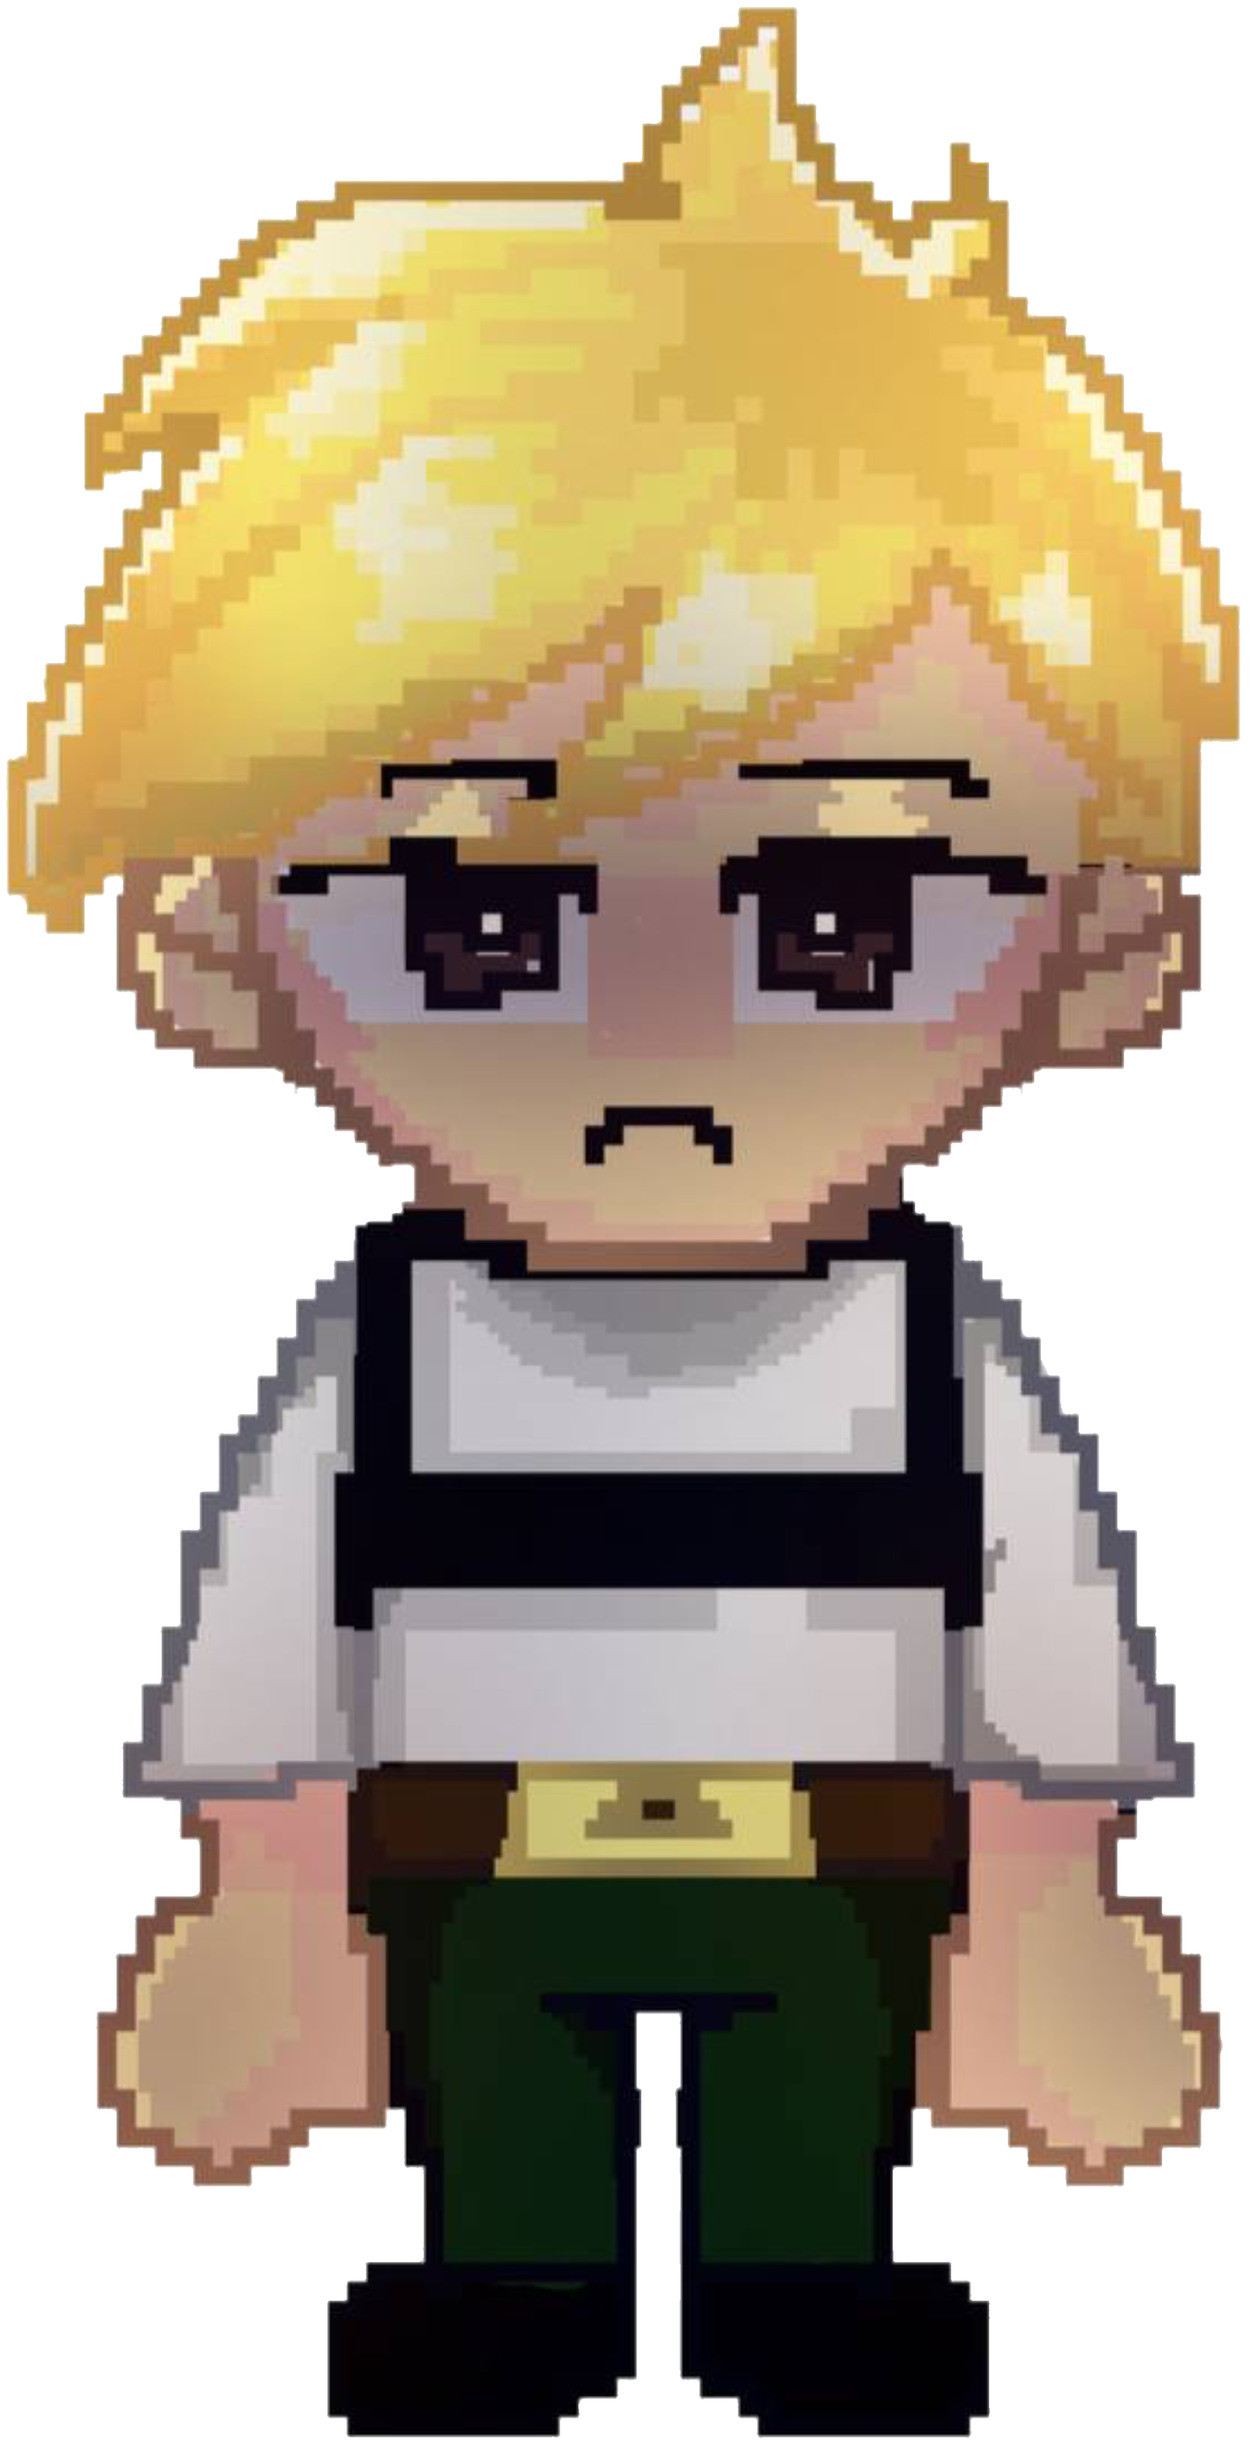
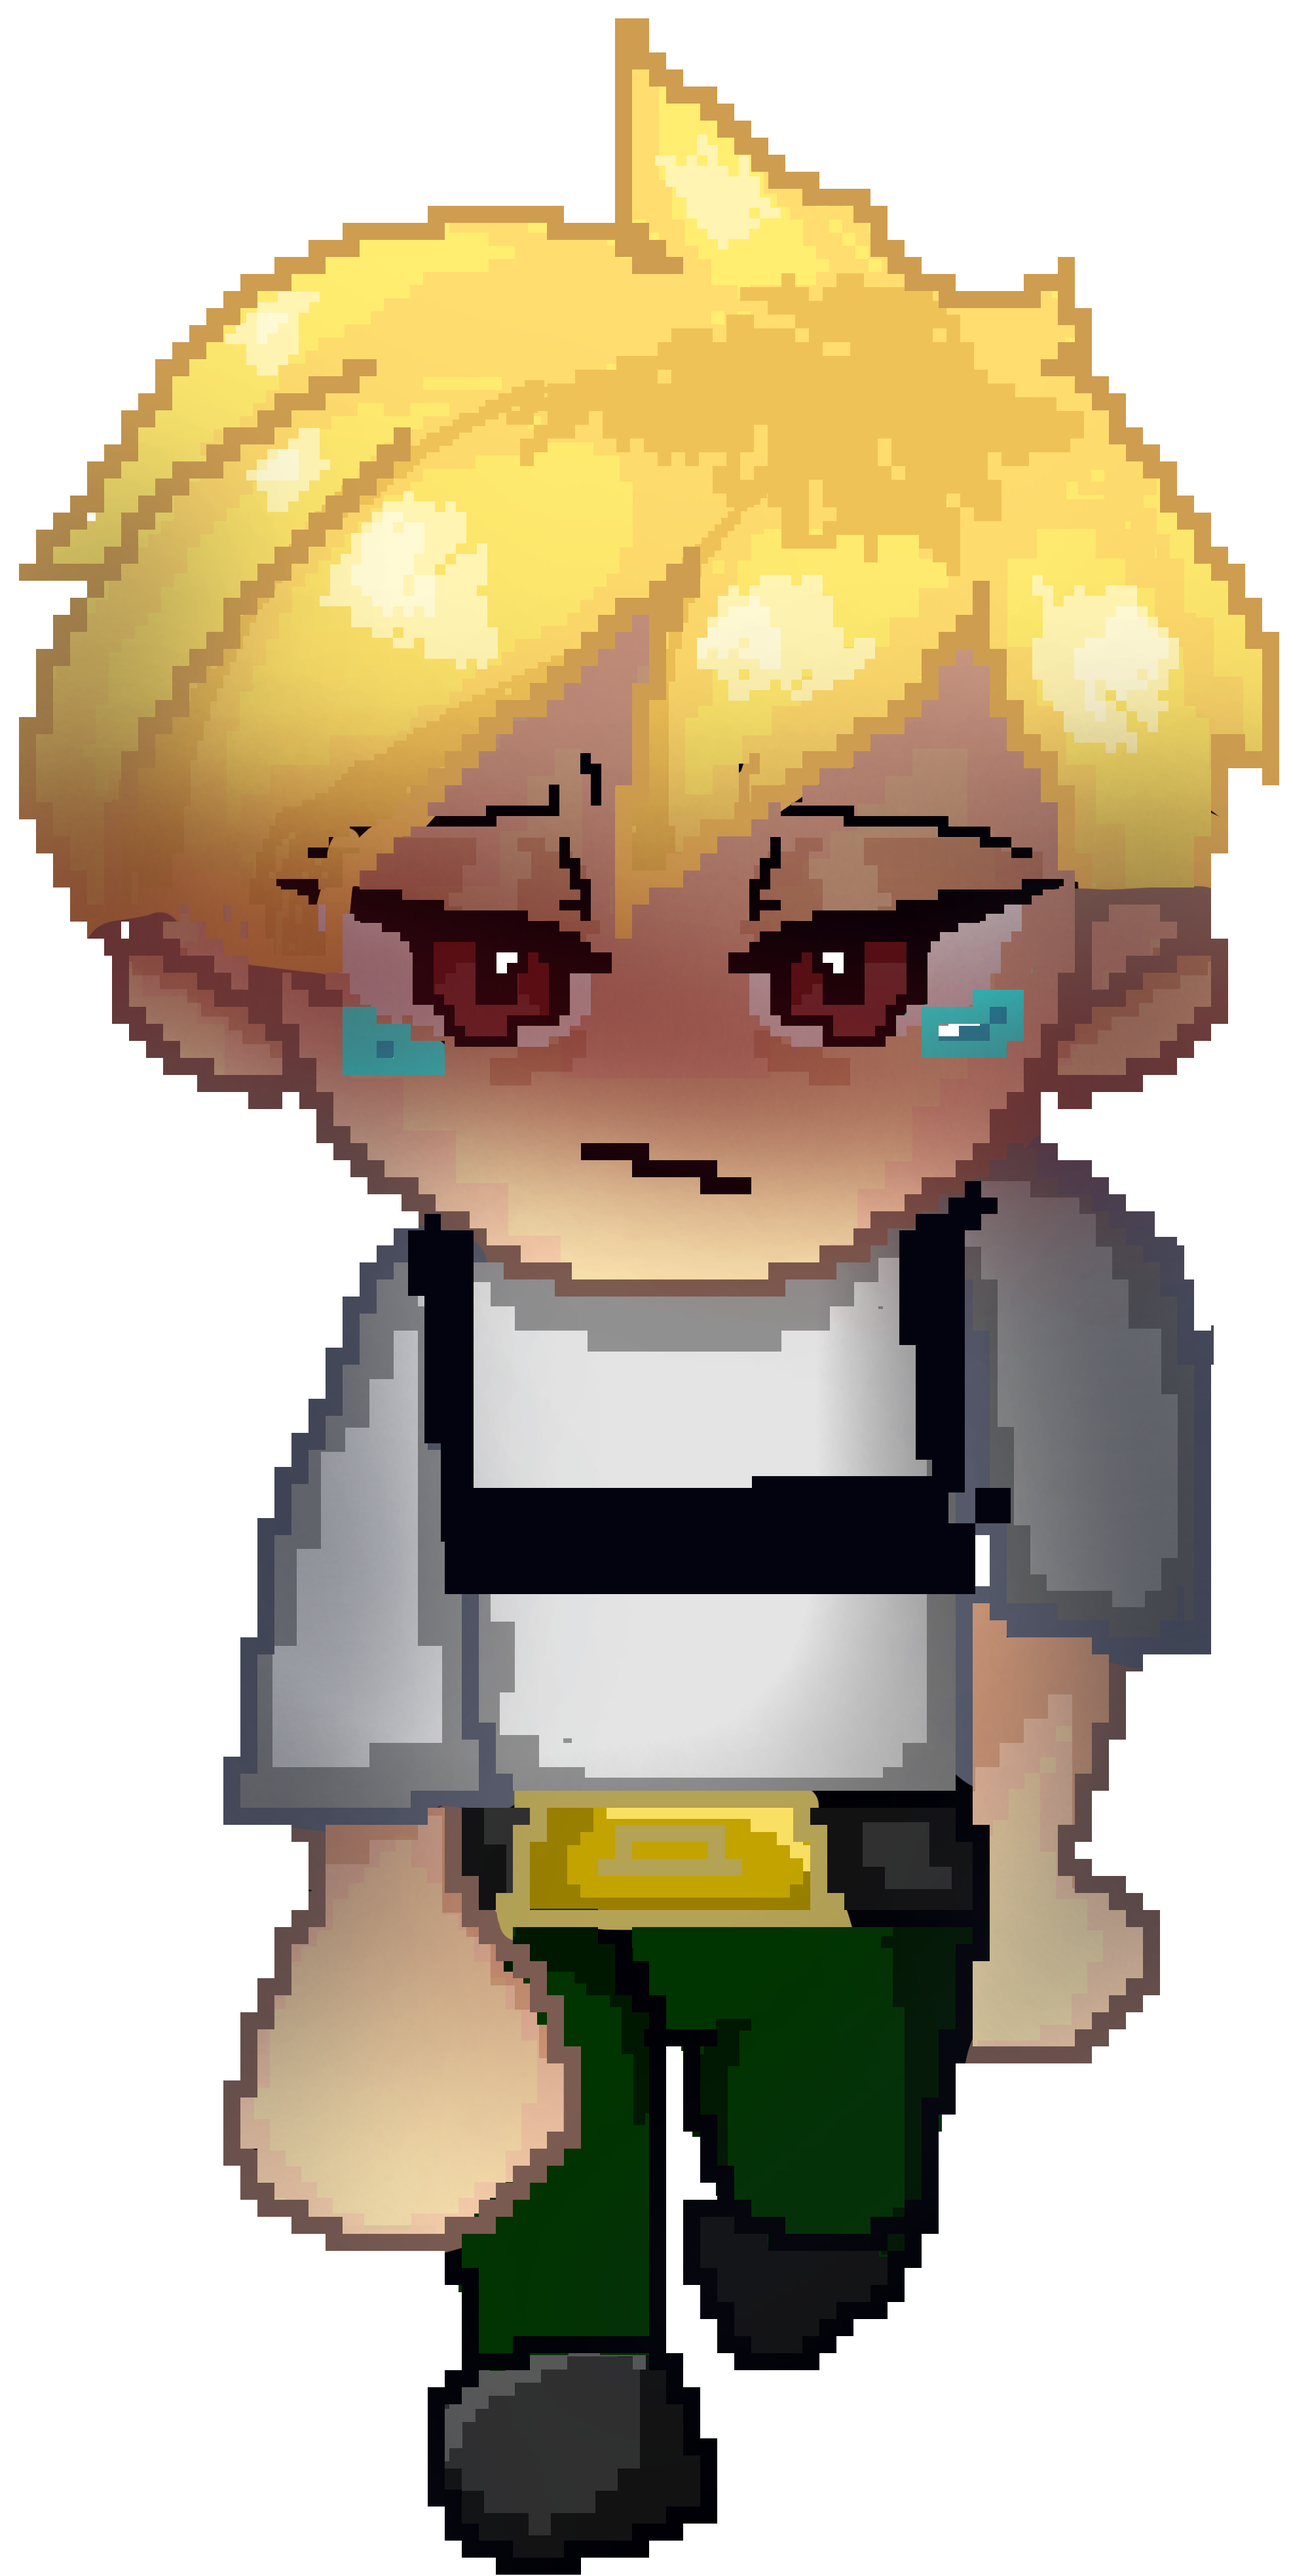
Анимация новая

diff --git a/Menu2/Classes/Player.cs b/Menu2/Classes/Player.cs
@@ -74,21 +74,22 @@ namespace Menu2
             animations.Add(new BitmapImage(new Uri("hero2.PNG", UriKind.Relative)));
             animations.Add(new BitmapImage(new Uri("hero3.PNG", UriKind.Relative)));
             animations.Add(new BitmapImage(new Uri("hero4.png", UriKind.Relative)));
-            animations.Add(new BitmapImage(new Uri("hero5.png", UriKind.Relative)));
             animations.Add(new BitmapImage(new Uri("heroBack1.png", UriKind.Relative)));
             animations.Add(new BitmapImage(new Uri("heroBack2.png", UriKind.Relative)));
+            animations.Add(new BitmapImage(new Uri("stayBack.png", UriKind.Relative)));
+            animations.Add(new BitmapImage(new Uri("stayForward.png", UriKind.Relative)));
         }
 
         private void heroTick(object sender, EventArgs e)
         {
             if (UpKeyPressed)
             {
-                AnimateHero(5, 6);
+                AnimateHero(4, 5);
             }
 
             if (DownKeyPressed)
             {
-                AnimateHero(0, 4);
+                AnimateHero(0, 3);
             }
         }
         public void KeyboardUp(object sender, KeyEventArgs e)

diff --git a/Menu2/Classes/PlayerMaze.cs b/Menu2/Classes/PlayerMaze.cs
@@ -57,21 +57,22 @@ namespace Menu2.Classes
             animations.Add(new BitmapImage(new Uri("hero2.PNG", UriKind.Relative)));
             animations.Add(new BitmapImage(new Uri("hero3.PNG", UriKind.Relative)));
             animations.Add(new BitmapImage(new Uri("hero4.png", UriKind.Relative)));
-            animations.Add(new BitmapImage(new Uri("hero5.png", UriKind.Relative)));
             animations.Add(new BitmapImage(new Uri("heroBack1.png", UriKind.Relative)));
             animations.Add(new BitmapImage(new Uri("heroBack2.png", UriKind.Relative)));
+            animations.Add(new BitmapImage(new Uri("stayBack.png", UriKind.Relative)));
+            animations.Add(new BitmapImage(new Uri("stayForward.png", UriKind.Relative)));
         }
 
         private void heroTick(object sender, EventArgs e)
         {
             if (UpKeyPressed)
             {
-                AnimateHero(5, 6);
+                AnimateHero(4, 5);
             }
 
             if (DownKeyPressed)
             {
-                AnimateHero(0, 4);
+                AnimateHero(0, 3);
             }
         }
         public void Move()

diff --git a/Menu2/Maze/MazeD.xaml.cs b/Menu2/Maze/MazeD.xaml.cs
@@ -284,7 +284,7 @@ namespace Menu2.Maze
             bool isColliding;
             Image code = new Image();
             // Загружаем картинку из ресурсов проекта
-            code.Source = new BitmapImage(new Uri("code1.png", UriKind.RelativeOrAbsolute));
+            code.Source = new BitmapImage(new Uri("code4.png", UriKind.RelativeOrAbsolute));
             code.Tag = "code";
             code.Height = ((int)Character.Height);
             code.Width = ((int)Character.Width);

diff --git a/Menu2/Maze/MazeL.xaml.cs b/Menu2/Maze/MazeL.xaml.cs
@@ -284,7 +284,7 @@ namespace Menu2.Maze
             bool isColliding;
             Image code = new Image();
             // Загружаем картинку из ресурсов проекта
-            code.Source = new BitmapImage(new Uri("code1.png", UriKind.RelativeOrAbsolute));
+            code.Source = new BitmapImage(new Uri("code3.png", UriKind.RelativeOrAbsolute));
             code.Tag = "code";
             code.Height = ((int)Character.Height);
             code.Width = ((int)Character.Width);

diff --git a/Menu2/Maze/MazeR.xaml.cs b/Menu2/Maze/MazeR.xaml.cs
@@ -285,7 +285,7 @@ namespace Menu2.Maze
             bool isColliding;
             Image code = new Image();
             // Загружаем картинку из ресурсов проекта
-            code.Source = new BitmapImage(new Uri("code1.png", UriKind.RelativeOrAbsolute));
+            code.Source = new BitmapImage(new Uri("code2.png", UriKind.RelativeOrAbsolute));
             code.Tag = "code";
             code.Height = ((int)Character.Height);
             code.Width = ((int)Character.Width);
